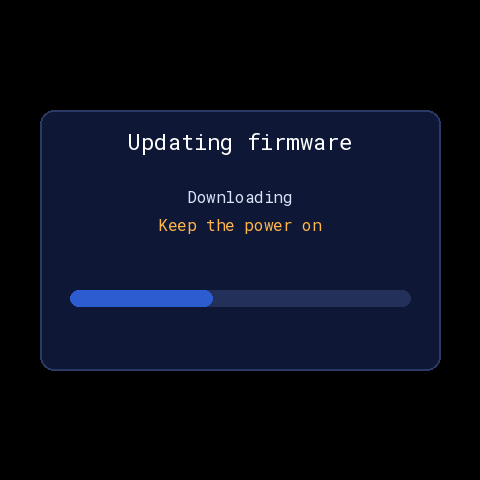
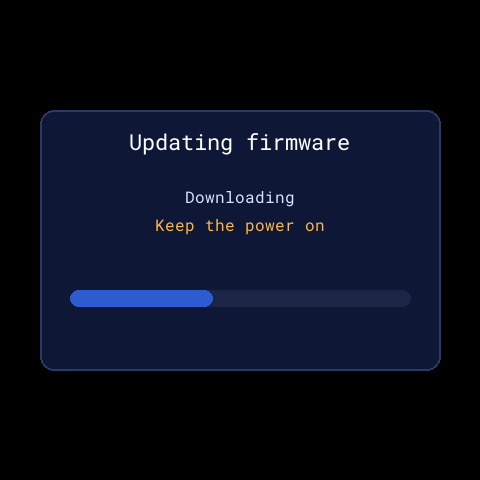
Settings chrome and update card follow sky-tracker
Header names the open tab, icon-only tabs, Upgrade Check/About bottom row,
bar track colour 0x1A2547 (UI-71), and 60 s idle close (UI-72).

Changed region(s): [[0.3125, 0.375, 0.6875, 0.5], [0.25, 0.2812, 0.75, 0.3125]]

diff --git a/tools/render_pages.py b/tools/render_pages.py
@@ -486,10 +486,11 @@ def _icon_button(d, G, wid, label, cp, size):
 def _settings_frame(ctx, page, tab, ids):
     """Header, the tab row and the panel origin - all read from the YAML."""
     G = ctx["geo"]
-    require(G, page, "tab_display", "tab_race", "tab_location", "btn_about",
+    require(G, page, "tab_display", "tab_race", "tab_location", "btn_about", "btn_update",
+            "settings_title",
             "pnl_display", "pnl_race", "pnl_location", "settings_err", *ids)
     img = Image.new("RGB", (W, H), BG); d = ImageDraw.Draw(img)
-    d.text((16, 14), "Settings", font=FONT[16], fill=ORANGE)
+    d.text((16, 14), ("DISPLAY", "RACE", "LOCATION")[tab], font=FONT[16], fill=ORANGE)   # names the open tab
     for x, w, col, lab in ((238, 110, (0x1A, 0x25, 0x47), "Cancel"),
                            (356, 110, BORDER, "Save")):
         d.rounded_rectangle([x, 8, x + w, 46], 6, fill=col)
@@ -498,20 +499,16 @@ def _settings_frame(ctx, page, tab, ids):
     mdi_path = os.path.join(ROOT, "tools", ".cache", "mdi.ttf")     # the firmware's MDI 7.4.47
     if os.path.exists(mdi_path):
         mdi = ImageFont.truetype(mdi_path, 18)
-    for i, (wid, lab, cp) in enumerate((("tab_display", "Display", 0xF0379),
-                                        ("tab_race", "Race", 0xF023C),
-                                        ("tab_location", "Location", 0xF034E))):
+    for i, (wid, cp) in enumerate((("tab_display", 0xF0379), ("tab_race", 0xF023C),
+                                   ("tab_location", 0xF034E))):
         x, y, w, h = box(G, wid)
         d.rounded_rectangle([x, y, x + w, y + h], 8, fill=BORDER if i == tab else (0x1A, 0x25, 0x47))
-        # icon, 8 px, label - centred as a pair, as the FLEX row does on the device
-        tw = d.textlength(lab, font=FONT[14])
-        iw = 18 if mdi else 0
-        gap = 8 if mdi else 0
-        x0 = x + (w - (iw + gap + tw)) / 2
-        if mdi:
-            d.text((x0, y + h // 2), chr(cp), font=mdi, fill=TEXT, anchor="lm")
-        d.text((x0 + iw + gap, y + h // 2), lab, font=FONT[14], fill=TEXT, anchor="lm")
-    _icon_button(d, G, "btn_about", "About", 0xF02FD, 14)
+        if mdi:      # icon only, centred (sky-tracker UI-16a)
+            d.text((x + w / 2, y + h / 2), chr(cp), font=mdi, fill=TEXT, anchor="mm")
+    for wid, lab in (("btn_update", "Upgrade Check"), ("btn_about", "About")):
+        x, y, w, h = box(G, wid)
+        d.rounded_rectangle([x, y, x + w, y + h], 8, fill=(0x1A, 0x25, 0x47))
+        d.text((x + w / 2, y + h / 2), lab, font=FONT[16], fill=TEXT, anchor="mm")
     px, py, pw, ph = box(G, ("pnl_display", "pnl_race", "pnl_location")[tab])
     return img, d, px, py
 
@@ -592,7 +589,7 @@ def _card(mode):
         line("Updating firmware", 16, 22, WHITE); line("Downloading", l1y, 16, (0xDC, 0xE4, 0xF8))
         line("Keep the power on", l2y, 16, (0xFF, 0xB5, 0x47))
         bx, by = x0 + (cw - c["BAR_W"]) // 2, y0 + c["BAR_Y"]
-        d.rounded_rectangle([bx, by, bx + c["BAR_W"], by + c["BAR_H"]], 8, fill=(0x22, 0x30, 0x5A))
+        d.rounded_rectangle([bx, by, bx + c["BAR_W"], by + c["BAR_H"]], 8, fill=(0x1A, 0x25, 0x47))
         d.rounded_rectangle([bx, by, bx + int(c["BAR_W"] * 0.42), by + c["BAR_H"]], 8, fill=BORDER)
         name = "overlay-update-installing"
     else:
@@ -698,7 +695,7 @@ def page_settings_race(ctx):
 def page_settings_location(ctx):
     G = ctx["geo"]
     img, d, px, py = _settings_frame(ctx, "page-9c-settings-location", 2,
-        ("ta_lat", "ta_lon", "btn_update", "settings_kb"))
+        ("ta_lat", "ta_lon", "settings_kb"))
     _row_icon(d, px, py, 10, 0xF0F57); d.text((px + 44, py + 10), "Latitude", font=FONT[14], fill=TEXT)
     _field(d, px, py, "ta_lat", G, "61.580")
     d.text((px + 320, py + 12), "N+  S-", font=FONT[12], fill=MUTED)
@@ -709,9 +706,6 @@ def page_settings_location(ctx):
         "Latitude and longitude set sunrise/sunset for auto-dim only.\n"
         "The time zone is fixed in firmware and does not follow them.",
         font=FONT[12], fill=MUTED, spacing=3)
-    x, y, w, h = box(G, "btn_update", px, py)
-    d.rounded_rectangle([x, y, x + w, y + h], 8, fill=(0x1A, 0x25, 0x47))
-    _pair(d, x, y, w, h, "Check for updates", 0xF0162, 14)
     # The keyboard covers the lower third while a field is being edited; draw it
     # so a panel row that slides under it shows up here rather than on a device.
     kx, ky, kw, kh = box(G, "settings_kb")

diff --git a/f1-tracker/f1_update.h b/f1-tracker/f1_update.h
@@ -70,6 +70,12 @@ inline void close() {
   ui_ = Ui();
 }
 
+// UI-72 (sky-tracker): after 60 s untouched an open offer or result closes as Not now.
+// Never a download or install in progress.
+inline void idle_close() {
+  if (ui_.root && ui_.mode != M_INSTALLING) close();
+}
+
 inline lv_obj_t *label(lv_obj_t *p, const lv_font_t *f, uint32_t col, int y) {
   lv_obj_t *l = lv_label_create(p);
   if (f) lv_obj_set_style_text_font(l, f, 0);
@@ -116,7 +122,7 @@ inline void open() {
   lv_obj_set_size(ui_.bar, BAR_W, BAR_H);
   lv_obj_align(ui_.bar, LV_ALIGN_TOP_MID, 0, BAR_Y);
   lv_bar_set_range(ui_.bar, 0, 100);
-  lv_obj_set_style_bg_color(ui_.bar, lv_color_hex(0x22305A), LV_PART_MAIN);
+  lv_obj_set_style_bg_color(ui_.bar, lv_color_hex(0x1A2547), LV_PART_MAIN);
   lv_obj_set_style_bg_opa(ui_.bar, LV_OPA_COVER, LV_PART_MAIN);
   lv_obj_set_style_bg_color(ui_.bar, lv_color_hex(0x2D5BD0), LV_PART_INDICATOR);
   lv_obj_add_flag(ui_.bar, LV_OBJ_FLAG_HIDDEN);

diff --git a/f1-tracker/f1_ui.h b/f1-tracker/f1_ui.h
@@ -517,7 +517,10 @@ inline void settings_labels(lv_obj_t *lbl, int seconds) {
 
 // Settings tabs (7 / UI-16a): one panel visible at a time. The selected tab's
 // button takes the accent colour so the current panel is never ambiguous.
-inline void settings_tab(lv_obj_t *const pnl[3], lv_obj_t *const btn[3], int sel) {
+inline void settings_tab(lv_obj_t *const pnl[3], lv_obj_t *const btn[3], int sel,
+                         lv_obj_t *title = nullptr) {
+  static const char *const NAMES[3] = {"DISPLAY", "RACE", "LOCATION"};   // sky-tracker UI-16a
+  if (title != nullptr && sel >= 0 && sel < 3) lv_label_set_text(title, NAMES[sel]);
   for (int i = 0; i < 3; i++) {
     if (pnl[i] == nullptr || btn[i] == nullptr) continue;
     if (i == sel) lv_obj_remove_flag(pnl[i], LV_OBJ_FLAG_HIDDEN);

diff --git a/REQUIREMENTS.md b/REQUIREMENTS.md
@@ -2564,6 +2564,7 @@ exists.
 | 184 | **The release notes are the manifest's `ota.summary`**, written by `make_release.py` from `--notes FILE` or the commit subjects since the previous tag, so the card says what changed without anyone remembering to write it. The device shows ~1.5 KB and the script warns past that | 2026-10-08 | implements 183 |
 | 185 | **The web page's OTA upload had no hooks**, so an upload from it ran the whole write with the data task live and the screen frozen on its last frame - the exact failure FAIL-12 exists to prevent, on the one platform it was not wired to. It now shares the IDE upload's hooks through a YAML anchor | 2026-10-08 | corrects FAIL-12 |
 | 186 | **`CONFIG_MBEDTLS_EXTERNAL_MEM_ALLOC: y`**, taken from `sky-tracker` where the update check's TLS session failed with out-of-memory until it was set (plain `malloc` was not enough). Adopted on the same evidence rather than on a measurement of this device, and listed in 14.1 so it is measured; if handshakes on the PSRAM bus show as `lvgl took a long time`, it is the first thing to revisit | 2026-10-08 | active, **unmeasured** |
+| 187 | **Settings chrome follows `sky-tracker` UI-16a/UI-68/UI-71/UI-72.** The header names the open tab (`DISPLAY`, `RACE`, `LOCATION`, orange mono16); the tabs are icon-only, 152x44 at y 52; the panels start at y 104; `Upgrade Check` (206,440, 150x34) and `About` (362,440, 112x34) are text-only buttons in a bottom row, the error line (x 16, y 440, 184 wide) beside them; the update card's progress track is `0x1A2547` (it was `0x22305A`); 60 s untouched closes Settings as Cancel (brightness restored), About and Debug back to the map, and an update offer or result as Not now, never an install |  2026-10-10 | active |
 
 ---
 
